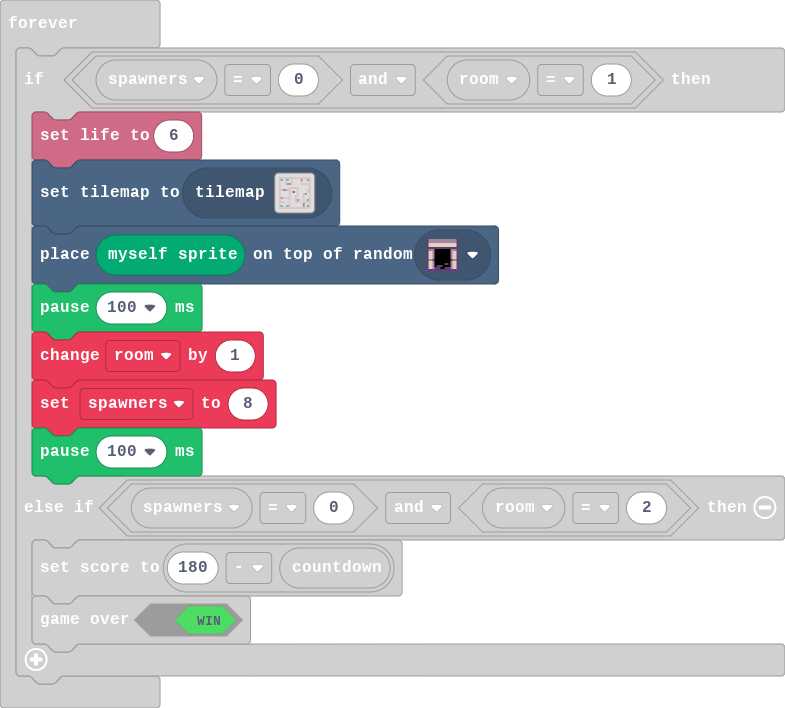
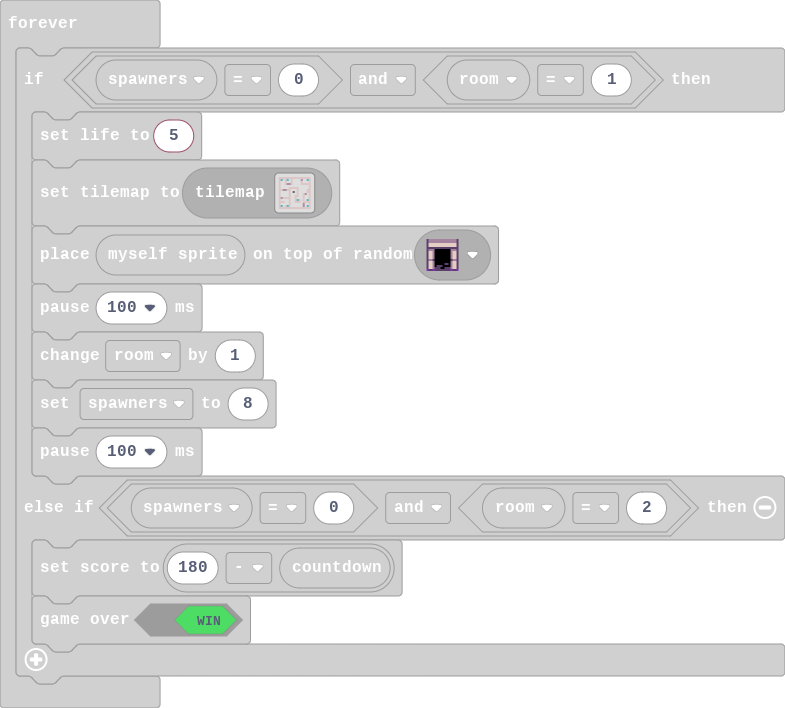
Update main.blocks, main.ts

Changed region(s): [[0.0306, 0.1554, 0.642, 0.6836]]

diff --git a/main.ts b/main.ts
@@ -256,7 +256,7 @@ forever(function () {
 })
 forever(function () {
     if (spawners == 0 && room == 1) {
-        info.setLife(6)
+        info.setLife(5)
         tiles.setCurrentTilemap(tilemap`level6`)
         tiles.placeOnRandomTile(Render.getRenderSpriteInstance(), sprites.dungeon.doorOpenNorth)
         pause(100)
